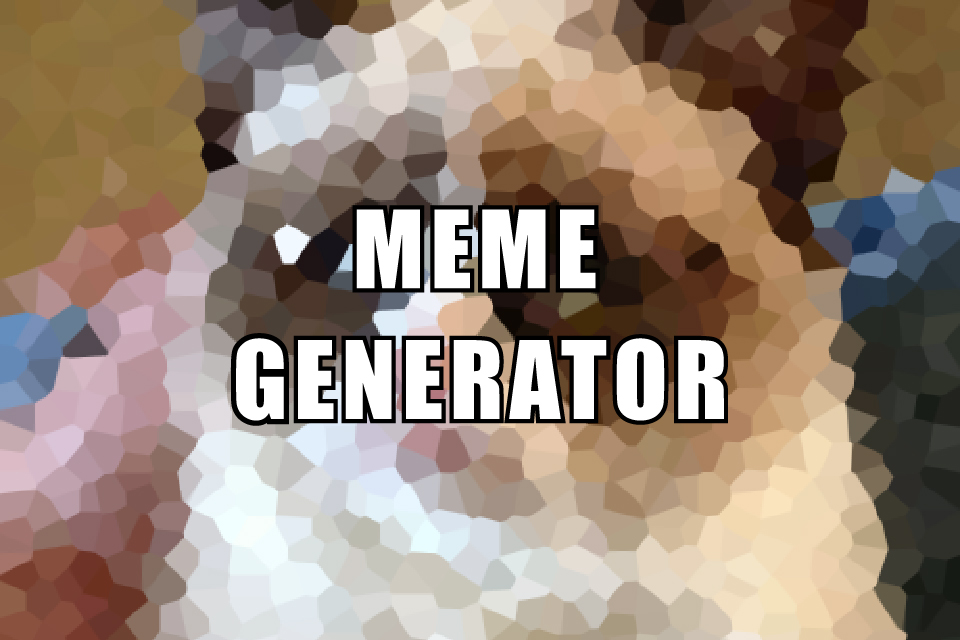
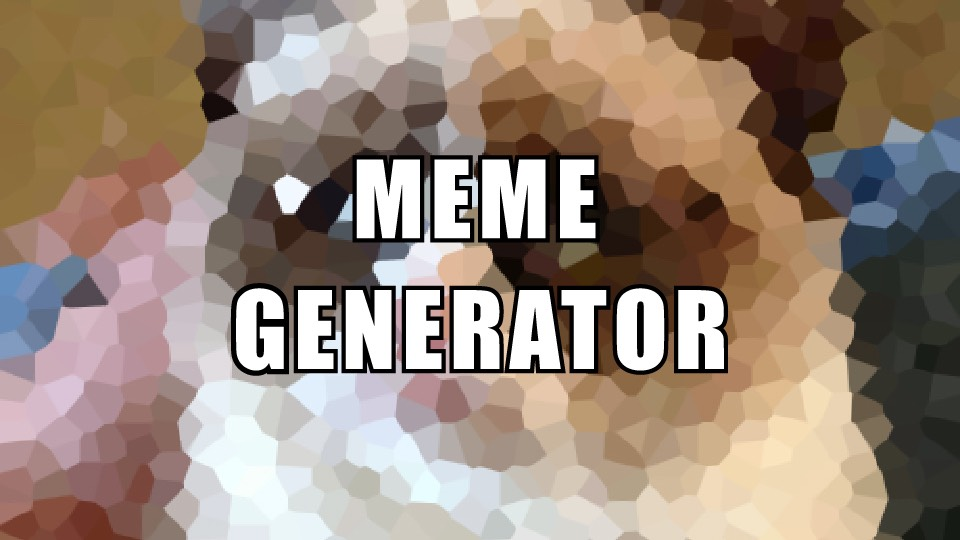
Optimize featured images

diff --git a/_projects/together-with-love.md b/_projects/together-with-love.md
@@ -4,7 +4,7 @@ title: Together with Love
 date: January 1, 2017
 category: Design
 
-featured: together-with-love/featured.png
+featured: together-with-love/featured.jpg
 description: A collection of concept designs created for Together with Love, an annual 5K/10K charity event held in Pacific Grove, California.
 keywords: adobe illustrator graphics design pacific grove monterey csumb
 ---

diff --git a/_projects/mockbuster.md b/_projects/mockbuster.md
@@ -14,7 +14,7 @@ buttons:
     color: btn-info
     icon: fas fa-link
 
-featured: mockbuster/featured.png
+featured: mockbuster/featured.jpg
 description: A website for browsing, purchasing and maintaining a movie database.
 keywords: website movies database administrator shopping cart api backend frontend development design
 ---
